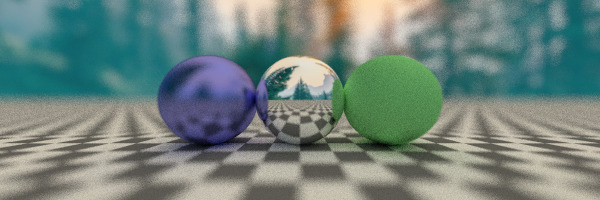
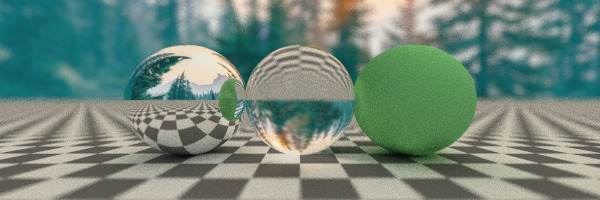
updated cover for dielectric

diff --git a/examples/cover.rb b/examples/cover.rb
@@ -5,17 +5,19 @@ include PathTracer
 width = 600
 height = 200
 
-checker = GroundCheckerTexture.new(Vector[0.2, 0.2, 0.2], Vector[0.9, 0.9, 0.9], 10)
+checker = GroundCheckerTexture.new(Vector[0.2, 0.2, 0.2], Vector[0.9, 0.9, 0.9], 5)
 environment_texture = ImageTexture.new(File.join(__dir__, "environment_1.jpg"))
 
-cam = Camera.new(Vector[0, 0, 2], Vector[0, 0, 0], Vector[0, 1, 0], 60, width / height.to_f, 0.2, 2.0)
+lookfrom = Vector[0, 1, 4]
+lookat = Vector[0, 1, 0]
+cam = Camera.new(lookfrom, lookat, Vector[0, 1, 0], 50, width / height.to_f, 0.2, (lookfrom - lookat).magnitude)
 world = BVHNode.from_list([
-  Sphere.new(Vector[-1, 0, 0], 0.5, Metal.new(ConstTexture.new(Vector[0.3, 0.3, 0.8]), 0.3)),
-  Sphere.new(Vector[0, 0, 0], 0.5, Metal.new(ConstTexture.new(Vector[0.9, 0.9, 0.9]), 0)),
-  Sphere.new(Vector[1, 0, 0], 0.5, Lambertian.new(ConstTexture.new(Vector[0.3, 0.8, 0.3]))),
+  Sphere.new(Vector[-2, 1, 0], 1.0, Metal.new(ConstTexture.new(Vector[0.95, 0.95, 0.95]), 0)),
+  Sphere.new(Vector[0, 1, 0], 1.0, Dielectric.new(1.5)),
+  Sphere.new(Vector[2, 1, 0], 1.0, Lambertian.new(ConstTexture.new(Vector[0.3, 0.8, 0.3]))),
 
-  Ground.new(-0.5, Lambertian.new(checker)),
+  Ground.new(0.0, Lambertian.new(checker)),
   Sphere.new(Vector[0, 0, 0], 1000, DiffuseLight.new(environment_texture)),
 ])
 scene = Scene.new(width, height, cam, world)
-scene.render(ns=1, "cover.ppm")
+scene.render(ns=10, "cover.ppm")

diff --git a/README.md b/README.md
@@ -1,7 +1,15 @@
 Path tracer
 ---
 <img src="https://github.com/Tarptaeya/ray_tracer/blob/master/images/cover.jpg" width="100%" height="auto">
+```
+$ time ruby cover.rb
+writing cover.ppm
+[====================] 100%
 
+real	10m12.298s
+user	39m22.258s
+sys	0m8.533s
+```
 ### Features
 - BVH acceleration
 - OBJ triangle mesh loading
